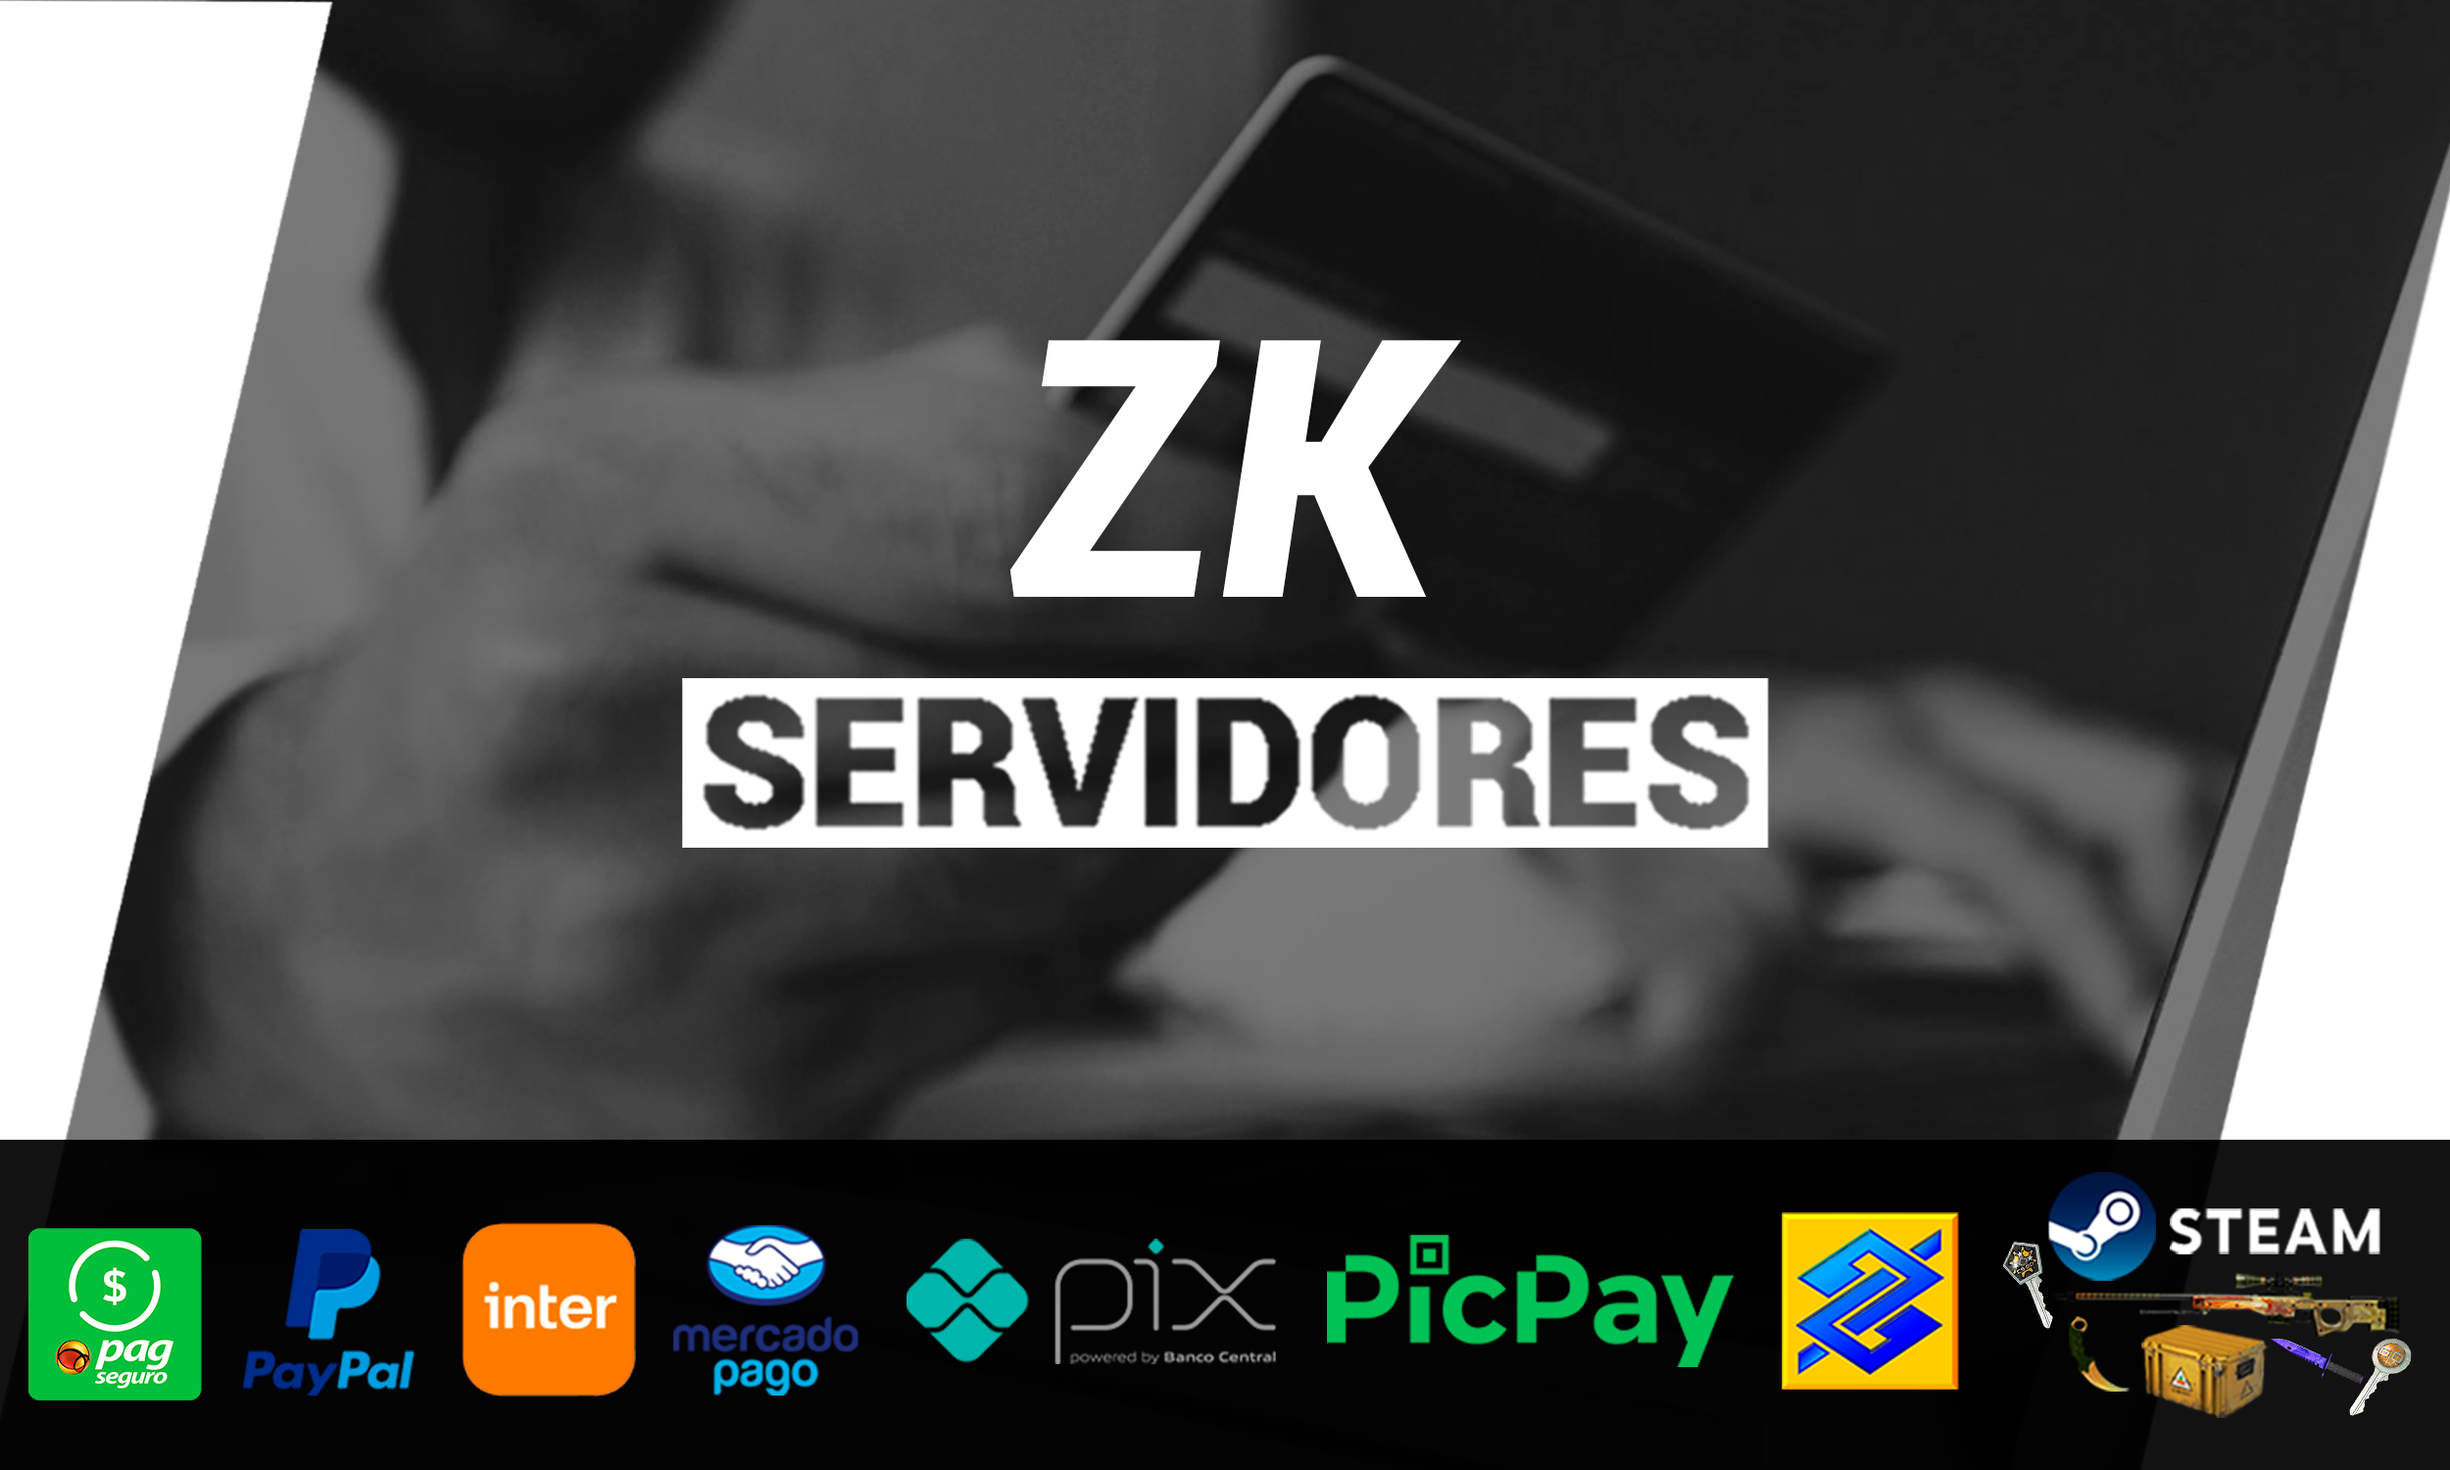
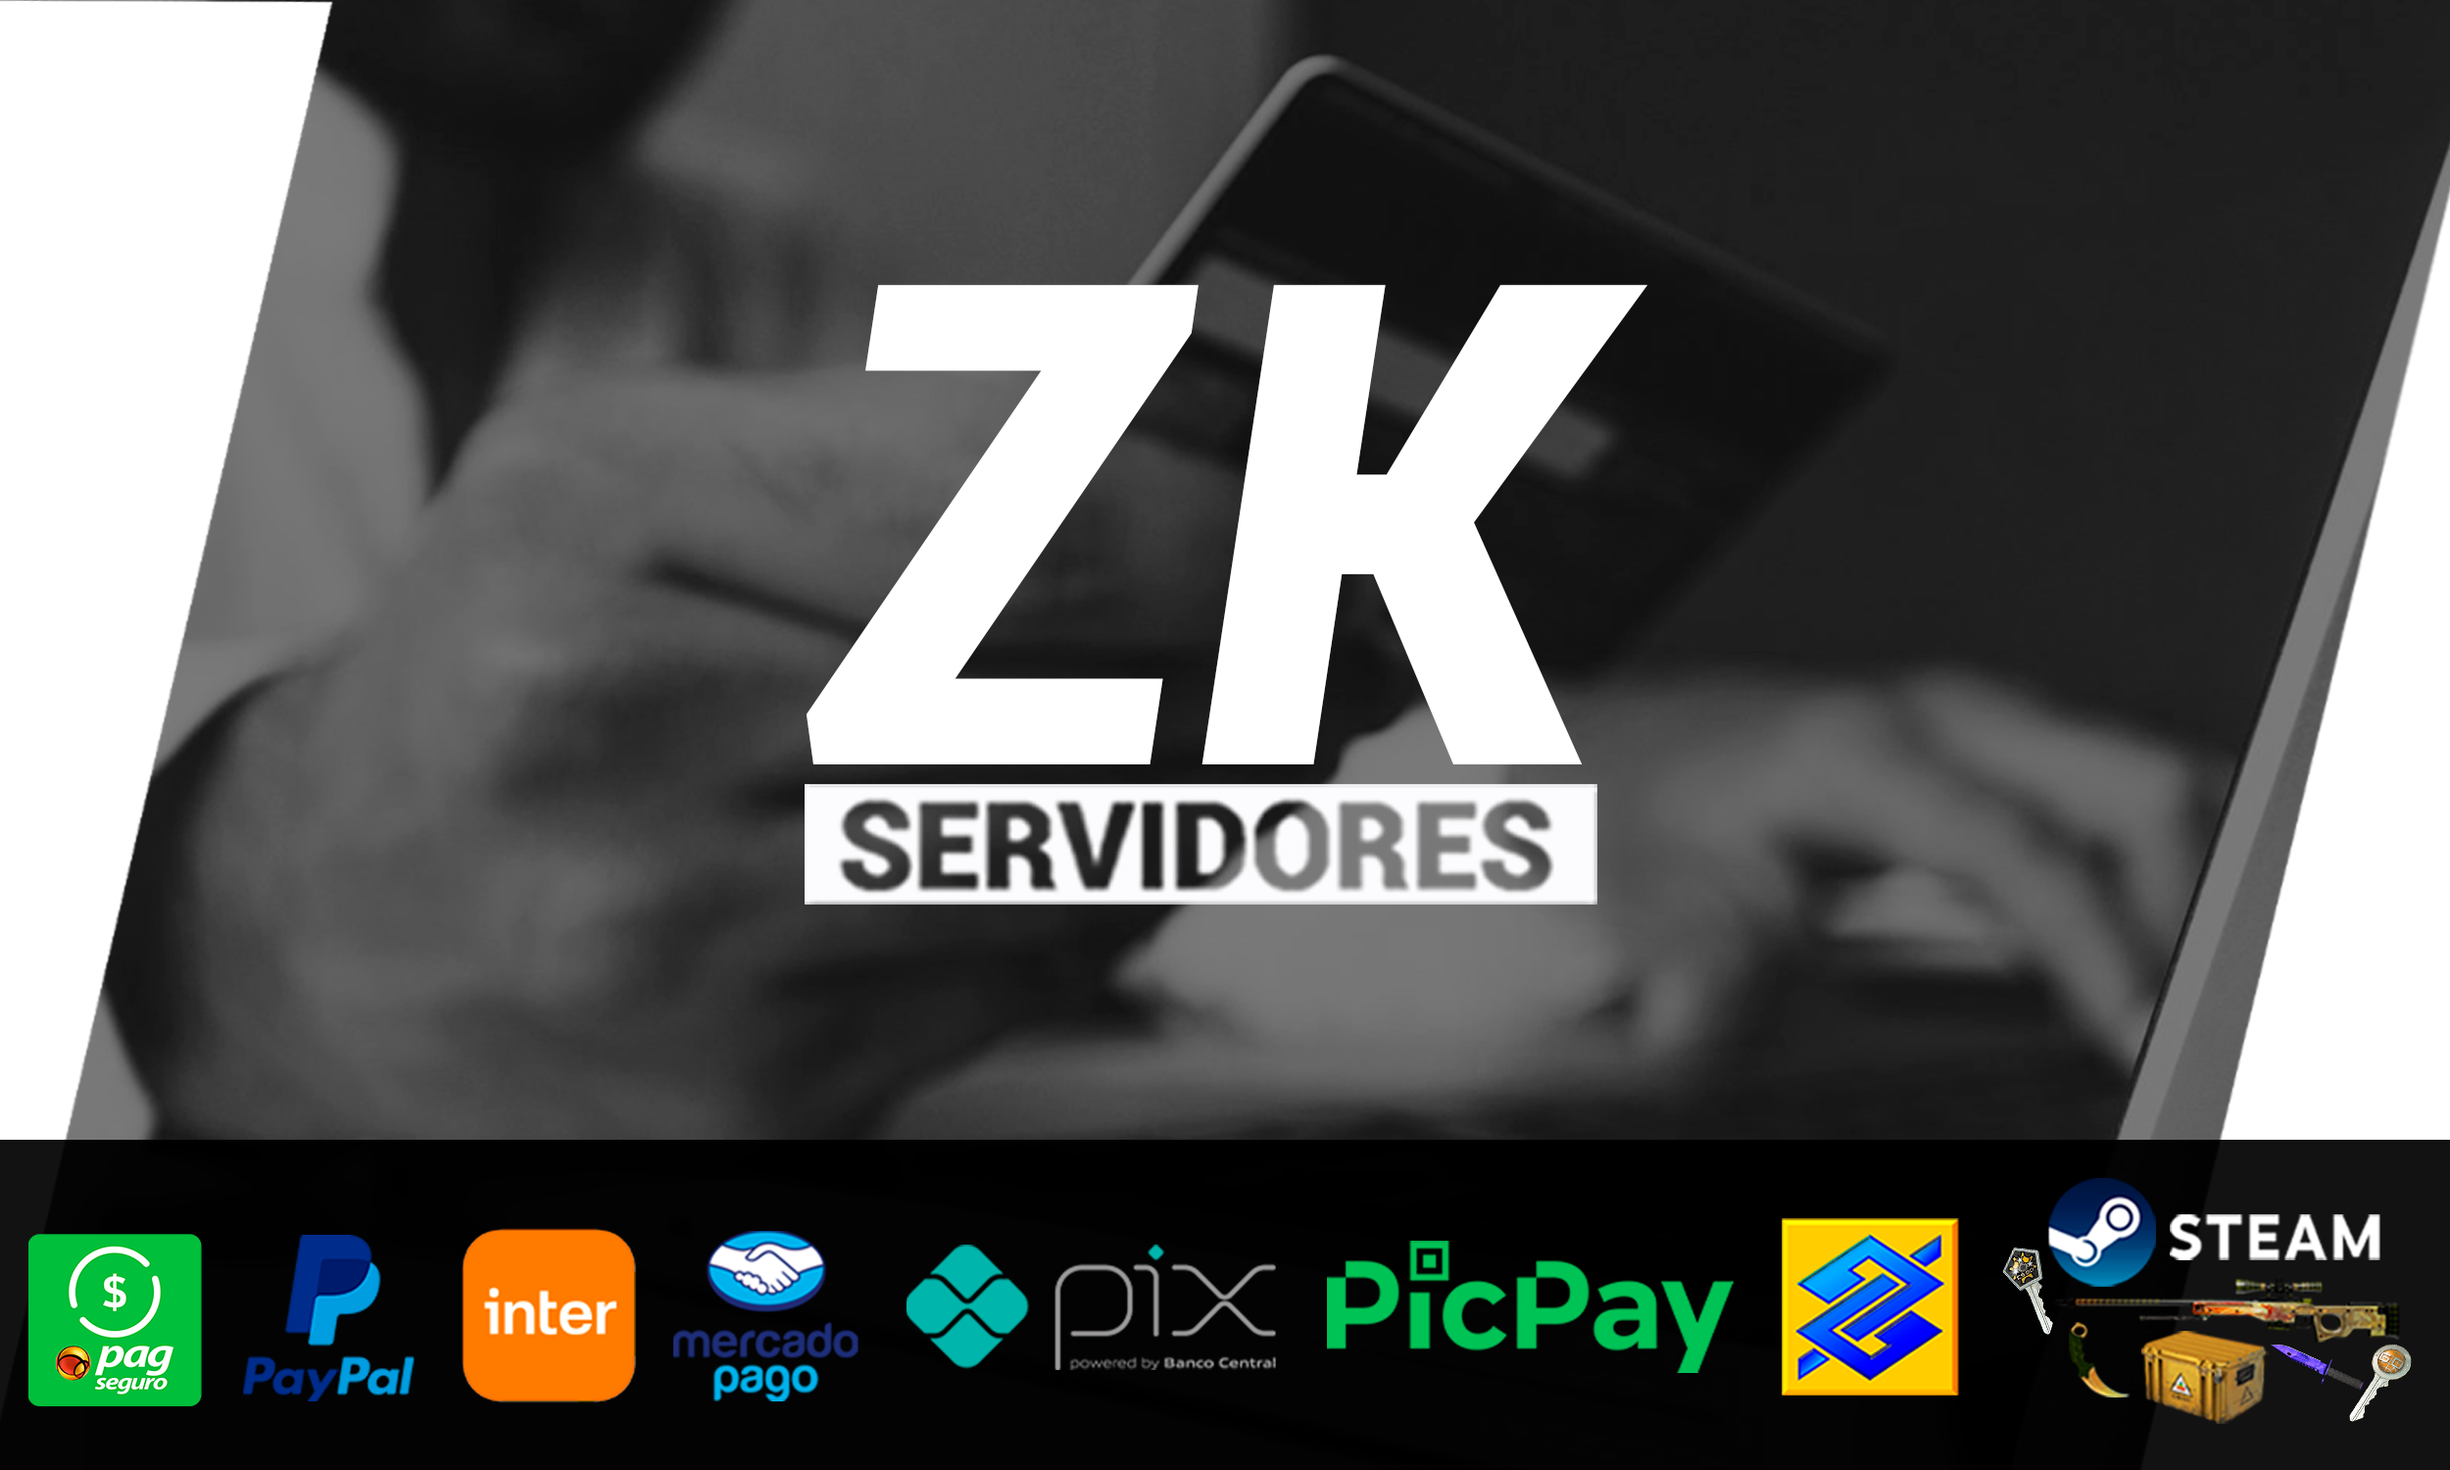
GitBook: [master] one page and 2 assets modified

diff --git a/adquira-vip/formas-de-pagamento.md b/adquira-vip/formas-de-pagamento.md
@@ -17,7 +17,7 @@ description: Saiba as formas de pagamentos que aceitamos.
 
 Compras com cartões de crédito podem ser parceladas. ****_**\(Taxas pagas pelo comprador\)**_
 
-![Formas de Pagamento](../.gitbook/assets/formas-de-pagamento%20%281%29.png)
+![Formas de Pagamento](../.gitbook/assets/formas-de-pagamento%20%282%29.png)
 
 **AVISO IMPORTANTE**
 
